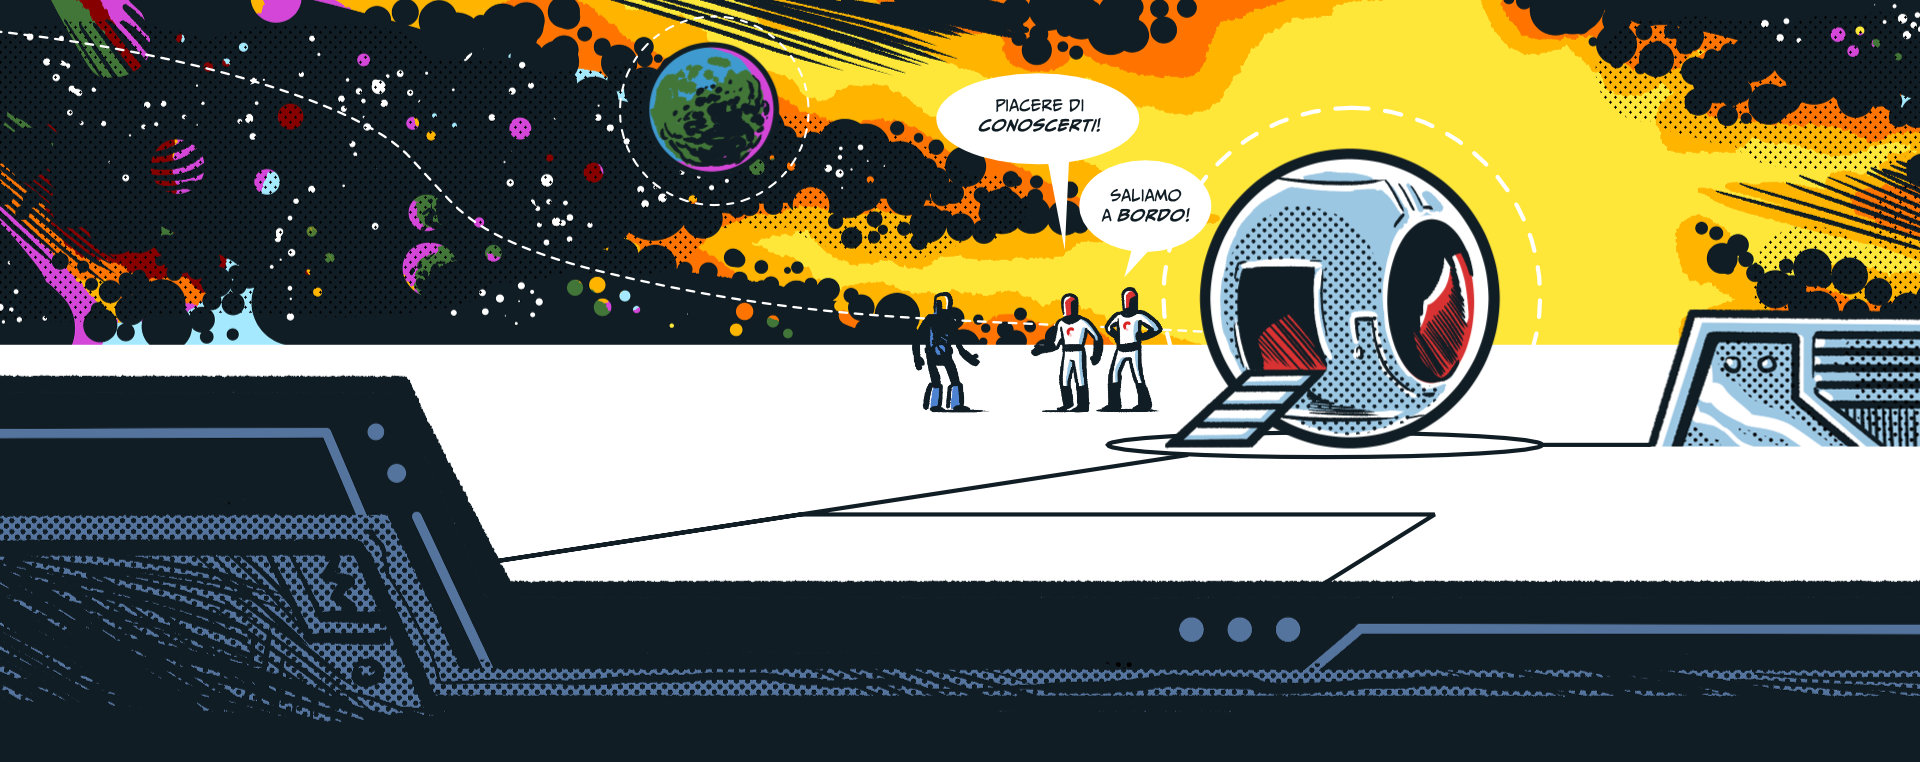
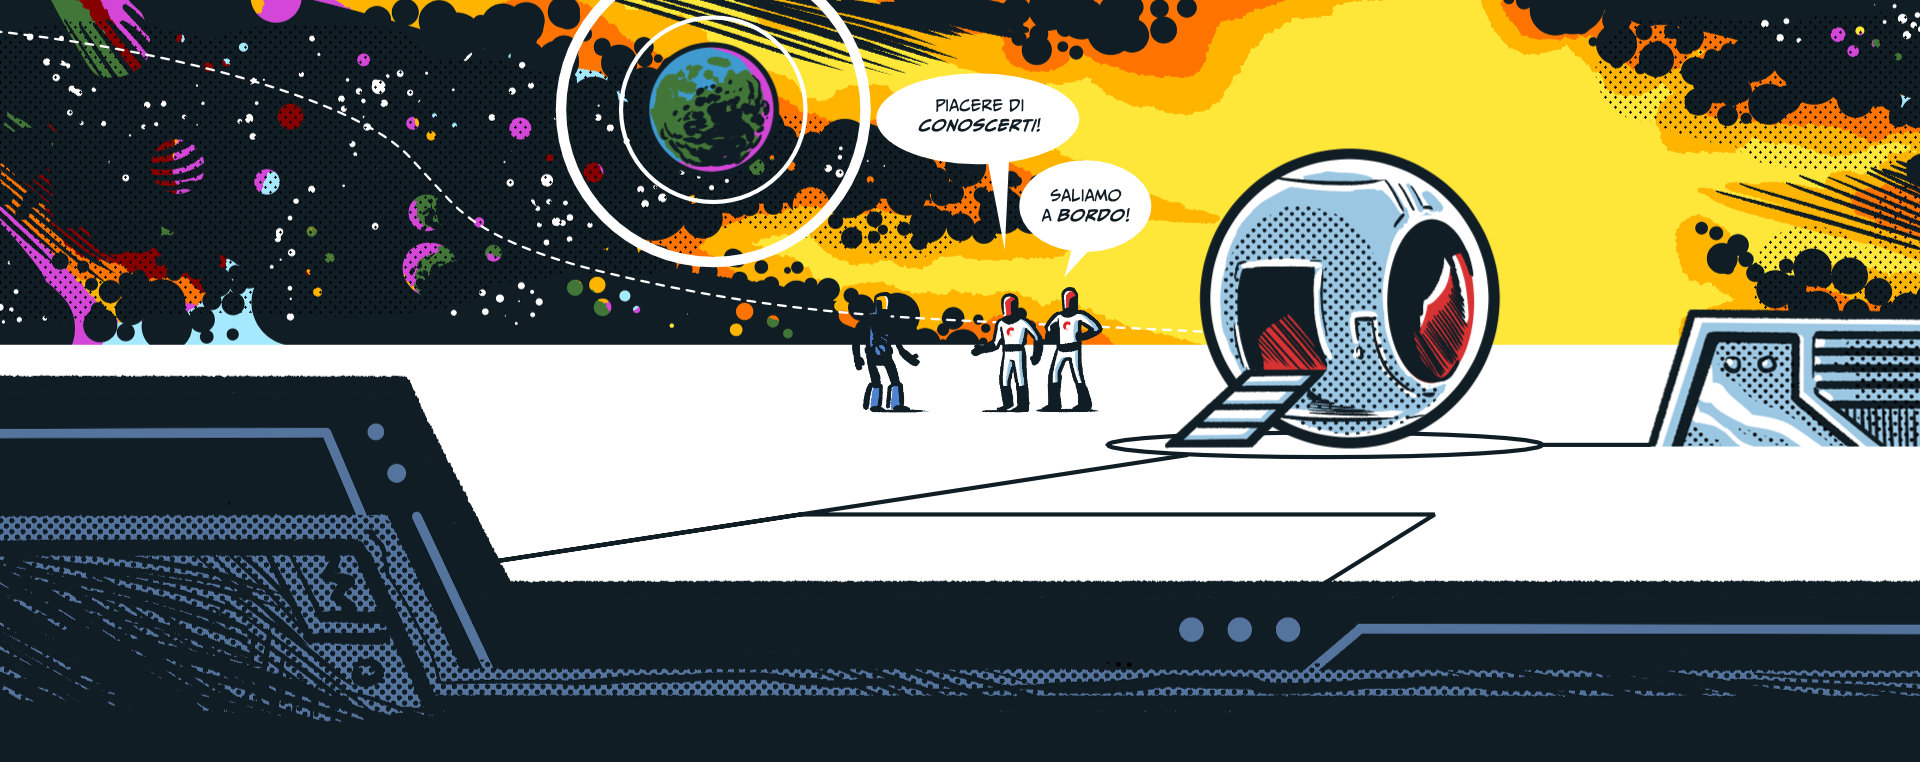
animations wip

diff --git a/src/components/homeWide/homeWide.tsx b/src/components/homeWide/homeWide.tsx
@@ -8,6 +8,7 @@ import techCircle from './techCircle.svg'
 
 import appleHeader from './appleHeader.jpg'
 import appleFooter from './appleFooter.jpg'
+import appleCircle from './appleCircle.svg'
 
 import tailorHeader from './tailorHeader.jpg'
 import tailorSidebar from './tailorSidebar.jpg'
@@ -15,21 +16,26 @@ import tailorFooter from './tailorFooter.jpg'
 
 import analysisHeader from './analysisHeader.jpg'
 import analysisSidebar from './analysisSidebar.jpg'
+import analysisCircle from './analysisCircle.svg'
 
 import compassSidebarRight from './compassSidebarRight.jpg'
 import compassMiddle from './compassMiddle.jpg'
 import compassSidebarLeft from './compassSidebarLeft.jpg'
+import compassCircle from './compassCircle.svg'
 
 import basementSidebar from './basementSidebar.jpg'
 import basementFooter from './basementFooter.jpg'
+import basementCircle from './basementCircle.svg'
 
 import codeHeader from './codeHeader.jpg'
 import codeSidebar from './codeSidebar.jpg'
 
 import changesSidebarLeft from './changesSidebarLeft.jpg'
 import changesSidebarRight from './changesSidebarRight.jpg'
+import changesCircle from './changesCircle.svg'
 
 import finishLineFooter from './finishLineFooter.jpg'
+import finishCircle from './finishCircle.svg'
 
 const HomeWide = () => {
 
@@ -56,11 +62,11 @@ const HomeWide = () => {
         <div className='cp-home-wide__section__tech__header'>
           <img className="" src={techHeader} alt=""/>
         </div>
-        <div className='cp-home-wide__section__tech__header cp-home-wide__section__tech__header__circle'>
-          <img className="" src={techCircle} alt=""/>
-        </div>
         <div className='cp-home-wide__section__tech__sidebar'>
           <img className="" src={techSidebar} alt=""/>
+        </div>
+        <div className='cp-home-wide__section__tech__sidebar cp-home-wide__section__tech__sidebar__circle'>
+          <img className="" src={techCircle} alt=""/>
         </div>
         <div className='cp-home-wide__section__tech__content'>
           <h1>Costruiamo <span>sinergie</span> tra aziende e tecnologia</h1>
@@ -84,6 +90,9 @@ const HomeWide = () => {
         </div>
         <div className='cp-home-wide__section__apple__footer'>
           <img className="" src={appleFooter} alt=""/>
+        </div>
+        <div className='cp-home-wide__section__apple__footer cp-home-wide__section__apple__footer__circle'>
+          <img className="" src={appleCircle} alt=""/>
         </div>
       </div>
       <div className='cp-home-wide__section cp-home-wide__section--red cp-home-wide__section__tailor'>
@@ -118,6 +127,9 @@ const HomeWide = () => {
         <div className='cp-home-wide__section__analysis__sidebar'>
           <img className="" src={analysisSidebar} alt=""/>
         </div>
+        <div className='cp-home-wide__section__analysis__sidebar cp-home-wide__section__analysis__sidebar__circle'>
+          <img className="" src={analysisCircle} alt=""/>
+        </div>
       </div>
       <div id="compass" className='cp-home-wide__section cp-home-wide__section__compass'>
         <div className='cp-home-wide__section__compass__content-left'>
@@ -131,6 +143,9 @@ const HomeWide = () => {
         </div>
         <div className='cp-home-wide__section__compass__middle'>
           <img className="" src={compassMiddle} alt=""/>
+        </div>
+        <div className='cp-home-wide__section__compass__middle cp-home-wide__section__compass__middle__circle'>
+          <img className="" src={compassCircle} alt=""/>
         </div>
         <div className='cp-home-wide__section__compass__sidebar-left'>
           <img className="" src={compassSidebarLeft} alt=""/>
@@ -158,6 +173,9 @@ const HomeWide = () => {
         <div className='cp-home-wide__section__basement__footer'>
           <img className="" src={basementFooter} alt=""/>
         </div>
+        <div className='cp-home-wide__section__basement__footer cp-home-wide__section__basement__footer__circle'>
+          <img className="" src={basementCircle} alt=""/>
+        </div>
       </div>
       <div className='cp-home-wide__section cp-home-wide__section__code'>
         <div className='cp-home-wide__section__code__header'>
@@ -179,6 +197,9 @@ const HomeWide = () => {
         <div className='cp-home-wide__section__changes__sidebar-left'>
           <img className="" src={changesSidebarLeft} alt=""/>
         </div>
+        <div className='cp-home-wide__section__changes__sidebar-left cp-home-wide__section__changes__sidebar-left__circle'>
+          <img className="" src={changesCircle} alt=""/>
+        </div>
         <div id="changes" className='cp-home-wide__section__changes__content'>
           <h1>Quando le cose <span>cambiano</span></h1>
           <p>Da questo momento le attività di design, sviluppo, rilascio e test si <strong>ripetono ciclicamente</strong>: ogni volta che una piccola porzione del software è funzionante, la rendiamo disponibile. <strong>Ad ogni iterazione il progetto cresce</strong>, arricchendosi di funzionalità e di dettagli.</p>
@@ -197,6 +218,9 @@ const HomeWide = () => {
         </div>
         <div className='cp-home-wide__section__finish-line__footer'>
           <img className="" src={finishLineFooter} alt=""/>
+        </div>
+        <div className='cp-home-wide__section__finish-line__footer cp-home-wide__section__finish-line__footer__circle'>
+          <img className="" src={finishCircle} alt=""/>
         </div>
         <div className='cp-home-wide__section__finish-line__content'>
           <p>Vi accompagniamo nel <strong>rilascio</strong> della piattaforma con attività di <strong>supporto</strong> e <strong>formazione</strong>. Come per un’automobile, anche per il software è bene definire <strong>piani di manutenzione e di feedback periodico</strong>: siamo sempre pronti per nuove sfide, raccogliendo indicazioni e nuovi obiettivi,  nell’ottica di un <strong>miglioramento continuo</strong> del prodotto.</p>

diff --git a/src/scss/_home-wide.scss b/src/scss/_home-wide.scss
@@ -75,21 +75,21 @@ $prefix: cp-home-wide;
       
       &__header {
         grid-area: header;
+      }
+
+      &__sidebar {
+        grid-area: sidebar;
 
         &__circle {
           position: relative;
 
           & img {
             position: absolute;
-            width: 10%;
-            left: 23%;
-            top: 25%;
+            width: 40%;
+            left: 41%;
+            top: 11%;        
           }
         }
-      }
-
-      &__sidebar {
-        grid-area: sidebar;
       }
 
       &__content {
@@ -118,6 +118,17 @@ $prefix: cp-home-wide;
 
       &__footer {
         grid-area: footer;
+
+        &__circle {
+          position: relative;
+
+          & img {
+            position: absolute;
+            width: 20%;
+            left: 60%;
+            top: 0%;     
+          }
+        }
       }
     }
 
@@ -170,7 +181,17 @@ $prefix: cp-home-wide;
 
       &__sidebar {
         grid-area: sidebar;
-        align-self: start;
+
+        &__circle {
+          position: relative;
+
+          & img {
+            position: absolute;
+            width: 41%;
+            left: 21%;
+            top: 35%;     
+          }
+        }
       }
     }
 
@@ -196,6 +217,17 @@ $prefix: cp-home-wide;
 
       &__middle {
         grid-area: middle;
+
+        &__circle {
+          position: relative;
+
+          & img {
+            position: absolute;
+            width: 20%;
+            left: 10%;
+            top: 25%;    
+          }
+        }
       }
 
       &__content-right {
@@ -231,6 +263,17 @@ $prefix: cp-home-wide;
 
       &__footer {
         grid-area: footer;
+
+        &__circle {
+          position: relative;
+
+          & img {
+            position: absolute;
+            width: 21%;
+            right: 10%;
+            top: -35%;   
+          }
+        }
       }
     }
 
@@ -266,6 +309,17 @@ $prefix: cp-home-wide;
       &__sidebar-left {
         grid-area: sidebar-left;
         align-self: center;
+
+        &__circle {
+          position: relative;
+
+          & img {
+            position: absolute;
+            width: 40%;
+            left: 64%;
+            top: -4%;             
+          }
+        }
       }
 
       &__content {
@@ -295,6 +349,17 @@ $prefix: cp-home-wide;
 
       &__footer {
         grid-area: footer;
+
+        &__circle {
+          position: relative;
+
+          & img {
+            position: absolute;
+            width: 40%;
+            left: 64%;
+            top: -4%;             
+          }
+        }
       }
 
       &__content {
